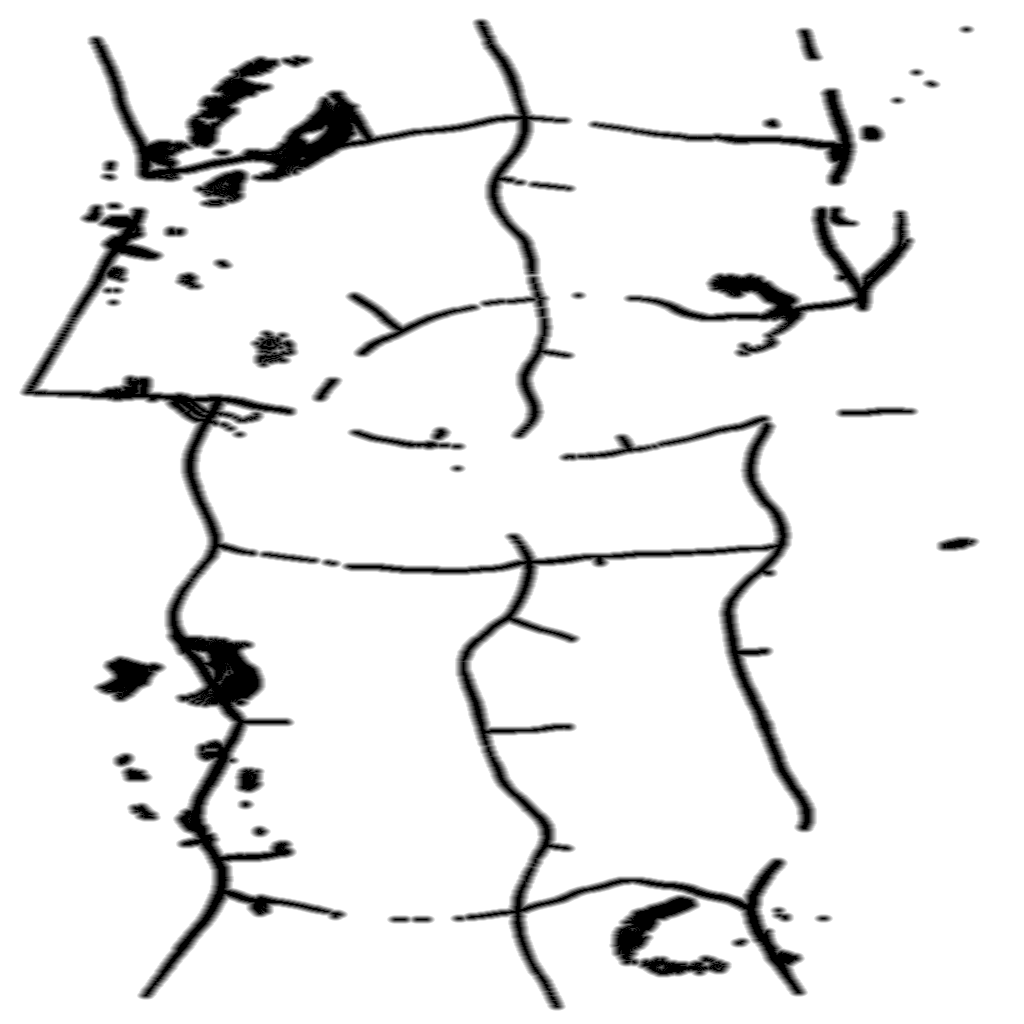
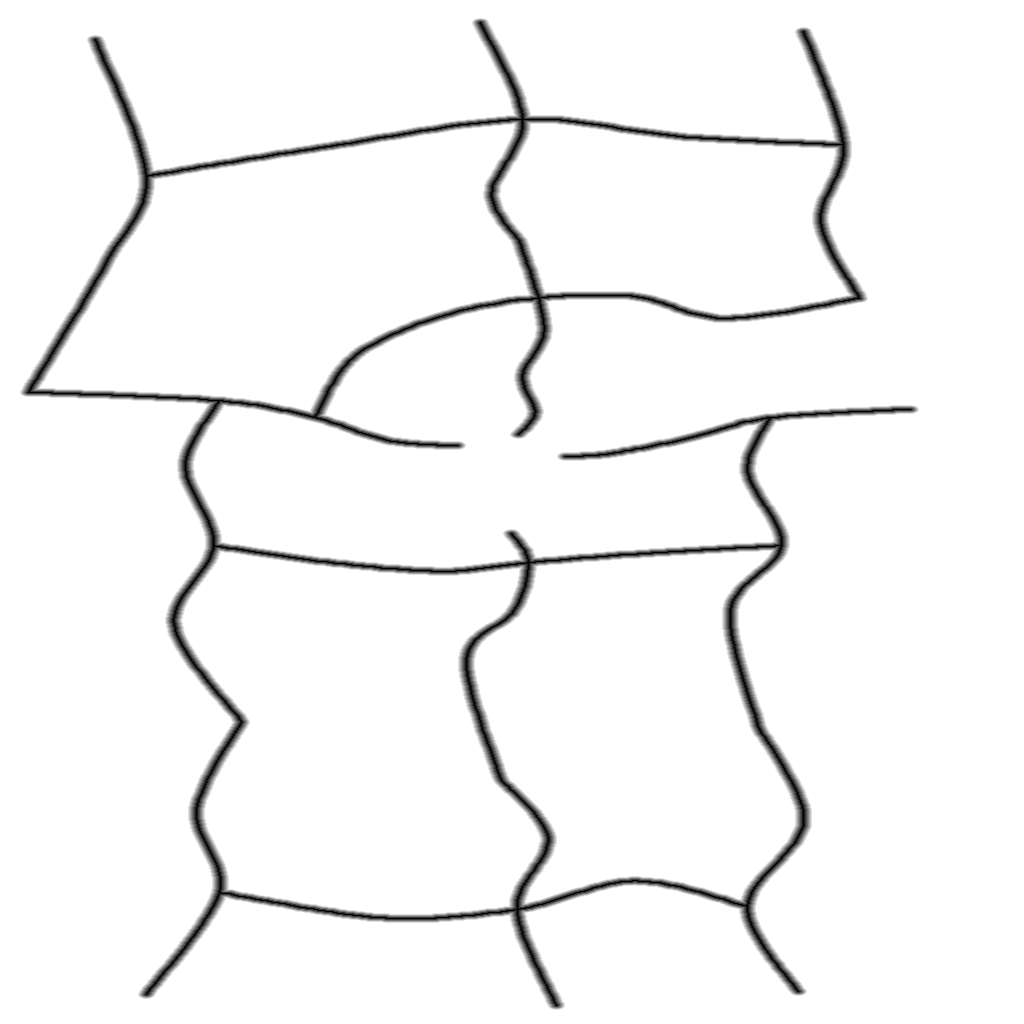
blender-interactive(world4x): join excavated river edges and restore regional forest hierarchy

diff --git a/docs/evidence/world4x-canon-20261022/authoring/interactive/command.py b/docs/evidence/world4x-canon-20261022/authoring/interactive/command.py
@@ -175,6 +175,32 @@ for ob in scene.objects:
   delta=new_hit.z-old_hit.z;ob.location.z+=delta
   rooted_adjustments+=abs(delta)>.001
 progress('rooted scenery fitted')
+# The same river bed must continue into the neighbouring mesh. Match BOTH
+# copies of the shared edge after excavation, instead of opening a physical gap.
+continuation=bpy.data.objects['BLD_ContinentalContinuation']
+context=np.array([tuple(v.co) for v in continuation.data.vertices],np.float32)
+edge={}
+for x,y,z in coords:
+ if abs(abs(float(x))-910)<.002 or abs(abs(float(y))-1800)<.002:
+  key=(round(float(x),3),round(float(y),3));edge[key]=max(edge.get(key,-1e9),float(z))
+context_edits=0
+for i,(x,y,z) in enumerate(context):
+ old=float(z)
+ for water_ob,water_bvh in water_surfaces:
+  hit=water_bvh.ray_cast(Vector((float(x),float(y),300)),Vector((0,0,-1)))[0]
+  if hit is None and water_ob.name.startswith('BLD_RiverExtension_'):
+   hit=water_bvh.find_nearest(Vector((float(x),float(y),.32)),4.5)[0]
+  if hit is not None:z=min(float(z),hit.z-.22)
+ key=(round(float(x),3),round(float(y),3))
+ if key in edge:z=edge[key]
+ context[i,2]=z
+ if abs(old-float(z))>.000001:context_edits+=1
+continuation.data.vertices.foreach_set('co',context.ravel());continuation.data.update()
+for x,y,z in context:
+ key=(round(float(x),3),round(float(y),3))
+ if key in edge:assert abs(float(z)-edge[key])<.00001
+progress('shared river boundary fitted')
+
 # Every retained decorative overlay follows the real cut; no floating plates.
 overlay_counts={}
 for name in ['BLD_BreachFloor','BLD_BreachOutlyingFractures','BLD_BreachBrokenBasaltPlates','BLD_BreachTerracedStrata','BLD_BreachWeatheredRockfall','BLD_BreachMineralHeart']:
@@ -266,9 +292,9 @@ for ob in scene.objects:
  if ob.name in export_names and ob.type in {'MESH','EMPTY'}:ob.select_set(True)
 bpy.ops.wm.save_as_mainfile(filepath=str(out/'Eldoria_Region1_Production.blend'),compress=True)
 bpy.ops.export_scene.gltf(filepath=str(out/'RegionOneBlenderWorld.glb'),export_format='GLB',use_selection=True)
-report={'source_sha256':hashlib.sha256(source.read_bytes()).hexdigest(),'terrain_vertices_after':len(coords),'bridge_length_before':34,'bridge_length_after':21,'actual_stepped_wall_vertices':len(changed),'protected_vertices_unchanged':int(protected.sum()),'original_packed_images_unchanged':len(original_images),'overlay_vertices_projected':overlay_counts,'gameplay_masks_sha256':hashlib.sha256(masks).hexdigest(),'new_gameplay_targets':0,'new_colliders':0,'existing_rooted_scenery_fitted':rooted_adjustments,'river_bed_vertices_corrected':river_bed_edits,'art_approved':False,'files':{n:hashlib.sha256((out/n).read_bytes()).hexdigest() for n in ['Eldoria_Region1_Production.blend','RegionOneBlenderWorld.glb','RegionOneBlenderQueries.bytes','production-region.json']}}
+report={'source_sha256':hashlib.sha256(source.read_bytes()).hexdigest(),'terrain_vertices_after':len(coords),'bridge_length_before':34,'bridge_length_after':21,'actual_stepped_wall_vertices':len(changed),'protected_vertices_unchanged':int(protected.sum()),'original_packed_images_unchanged':len(original_images),'overlay_vertices_projected':overlay_counts,'gameplay_masks_sha256':hashlib.sha256(masks).hexdigest(),'new_gameplay_targets':0,'new_colliders':0,'existing_rooted_scenery_fitted':rooted_adjustments,'continuation_vertices_refitted':context_edits,'river_bed_vertices_corrected':river_bed_edits,'art_approved':False,'files':{n:hashlib.sha256((out/n).read_bytes()).hexdigest() for n in ['Eldoria_Region1_Production.blend','RegionOneBlenderWorld.glb','RegionOneBlenderQueries.bytes','production-region.json']}}
 (out/'macro-art-operations.json').write_text(json.dumps(report,indent=2))
 progress('rendering source previews')
-bpy.app.driver_namespace['interactive_snapshot']('player-art-connected-land-v7')
+bpy.app.driver_namespace['interactive_snapshot']('player-art-connected-land-v8')
 (out/'stop.request').write_text('Saved physical wall correction; actual Unity review required.')
 print('PLAYER_ART_SCULPT_COMPLETE',json.dumps(report))

diff --git a/Unity/Assets/Eldoria/World4XCanon/RegionOneProductionLod.cs b/Unity/Assets/Eldoria/World4XCanon/RegionOneProductionLod.cs
@@ -17,8 +17,8 @@ namespace Eldoria.World4XCanon
                 var group=new GameObject("LOD "+near.name);group.transform.SetParent(artwork.transform,false);
                 // Reparent with world transforms preserved, including glTF handedness.
                 near.transform.SetParent(group.transform,true);far.transform.SetParent(group.transform,true);
-                // Prefer more legible low-poly conifer silhouettes at strategic
-                // distance, not an extra carpet or enlarged close-up donor.
+                // Match the reference crown hierarchy at strategic distance. The
+                // previous 20-26m crowns / 34-41m height dominated the region.
                 // The far mesh is independently exported, keeps its original
                 // ground anchor, and still crossfades through the existing LOD.
                 bool retained=near.name.StartsWith("Pilot_Pine",StringComparison.Ordinal);
@@ -31,9 +31,9 @@ namespace Eldoria.World4XCanon
                     far.transform.localScale=new Vector3(scale.x*2.10f,scale.y*2.60f,scale.z*2.10f);
                     var size=far.bounds.size;float footprint=Mathf.Max(size.x,size.z);
                     if(footprint>=12f){
-                        float crown=20f+(identity%7);
+                        float crown=12f+(identity%5);
                         far.transform.localScale=new Vector3(far.transform.localScale.x*crown/footprint,
-                            far.transform.localScale.y*(34f+identity%8)/Mathf.Max(.01f,size.y),
+                            far.transform.localScale.y*(18f+identity%6)/Mathf.Max(.01f,size.y),
                             far.transform.localScale.z*crown/footprint);
                     }
                     if(footprint<12f){
@@ -42,12 +42,12 @@ namespace Eldoria.World4XCanon
                         // legible as a rectangle even after its ground detail is
                         // culled. Keep its expected crown area, using fewer of
                         // the SAME anchors at the continental silhouette scale.
-                        float coverage=footprint*footprint/(22f*22f);
+                        float coverage=footprint*footprint/(14f*14f);
                         retainedFarVisible=(identity%10000)/10000f<coverage;
                         if(retainedFarVisible){
                             scale=far.transform.localScale;
-                            far.transform.localScale=new Vector3(scale.x*22f/Mathf.Max(.01f,footprint),
-                                scale.y*34f/Mathf.Max(.01f,size.y),scale.z*22f/Mathf.Max(.01f,footprint));
+                            far.transform.localScale=new Vector3(scale.x*14f/Mathf.Max(.01f,footprint),
+                                scale.y*20f/Mathf.Max(.01f,size.y),scale.z*14f/Mathf.Max(.01f,footprint));
                         }
                     }
                 }
@@ -60,10 +60,10 @@ namespace Eldoria.World4XCanon
                     if(retainedFarVisible){
                         var size=far.bounds.size;
                         float footprint=Mathf.Max(size.x,size.z);
-                        float crown=20f+((identity/5)%5);
+                        float crown=12f+((identity/5)%5);
                         var scale=far.transform.localScale;
                         far.transform.localScale=new Vector3(scale.x*crown/Mathf.Max(.01f,footprint),
-                            scale.y*(34f+identity%7)/Mathf.Max(.01f,size.y),scale.z*crown/Mathf.Max(.01f,footprint));
+                            scale.y*(18f+identity%6)/Mathf.Max(.01f,size.y),scale.z*crown/Mathf.Max(.01f,footprint));
                     }
                 }
                 // Scale about the existing canopy base, not the ground-origin

diff --git a/docs/evidence/world4x-canon-20261022/authoring/PLAYER_VIEW_DIRECTION_20261026.md b/docs/evidence/world4x-canon-20261022/authoring/PLAYER_VIEW_DIRECTION_20261026.md
@@ -84,3 +84,15 @@ BlenderMCP 40304157232 inspected at close and regional scales: pale triangular f
 Actual 61/62 PlayMode, no omissions; one floor-contact error 11.3815 mm against the unchanged 5 mm maximum. Runtime terrain/query/collider consistency tests pass. Fit a private decorative floor mesh once to the actual imported contact surface, preserving x/z and all terrain vertices; refuse corrections above 25 mm, retain +15 mm design offset and keep the 5 mm acceptance threshold. This corrects imported-overlay contact, not terrain or game data.
 
 Actual Unity images now show the continuous river, removed pale fins, coherent near detail and rounded peripheral atmosphere. The remaining broad grass lacks the illustrated tuft/earth texture. A new original bitmap brush was directed with built-in imagegen (no paid API path): seamless flat top-down stylized medieval grass/ochre earth albedo, 80/20 grass/soil, tiny pebbles and grass strokes, no scene objects, text, perspective, shadows or repeated polygon cells. Original saved PNG is preserved unchanged as RegionOnePaintedMeadow.png. It is applied as a mean-normalised world-space detail over existing grass, protecting actual paths, fading at panorama footprint and excluding the mineral core. This is a new visible material hypothesis, not another broad-colour tint. Keep only after actual Unity A/B; source references and 62 packed images remain unchanged.
+
+
+## Regional forest hierarchy: measured cause and bounded correction
+
+Current genuine Unity40304622115: direct visual estimate close7.2, regional6.4, panorama6.2; overall approximately6.8, not7.5. Near source fidelity/river/resource hierarchy retained. A simple illustrative dark-green RGB pixel proxy (G>1.18R,G>1.12B,maxRGB<.65) covers28.22% of regional portrait versus9.07% of the reference artwork content; near is8.55% versus12.63%, so thinning the close source would target the wrong camera. This is colour coverage, not an exact vegetation-area measurement or beauty score.
+
+Root cause is actual production LOD enlargement: continental crowns20-26m, heights34-41m; retained far crowns20-24m, heights34-40m. Reduce BOTH matched far families to12-16m crowns /18-23m heights. Small ecotone crown14m and20m height, with coverage probability recalibrated to its new footprint. Preserve every near canopy, existing anchor, shared source mesh, resource/creature and gameplay mask. This is one regional/panorama composition correction rather than deleting actual woodland or making the close camera emptier. Keep all original near/far imports and the existing matching-envelope tests; actual Unity comparison required.
+
+
+40310659122 genuine Unity:61/62, floor-contact assertion now passes; same test then exposes a2.798532m mismatch at the regional/continuation boundary. Excavating the regional river bed must update BOTH mesh copies at that edge. Actual Blender correction now excavates the same existing water footprint on the continuation and copies exact shared-edge heights; masks and terrain vertex count stay fixed.
+
+Painted close detail retained provisionally. First distance-map road enlargement rejected: colour-segmented source earth includes broad field stains, and65% opacity /5.5m growth becomes flat, thick ribbons in real panorama. Replace the segmentation with the existing authored Catmull-Rom route control points from build_region_from_ai.py, a softer edge and bounded opacity; no gameplay route or target changes. Regional far-canopy correction remains grouped with this composition pass.
